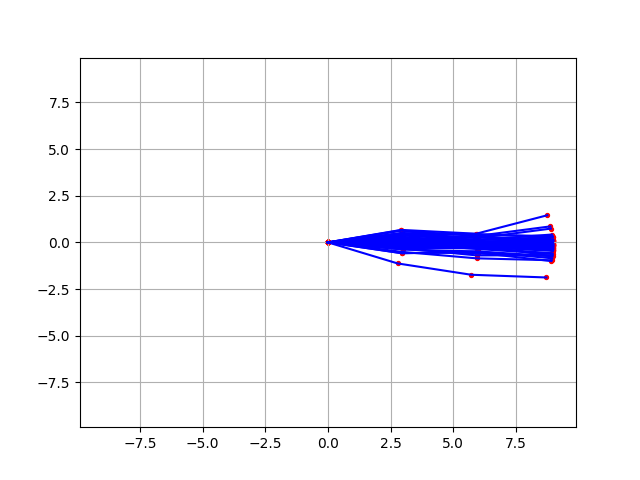
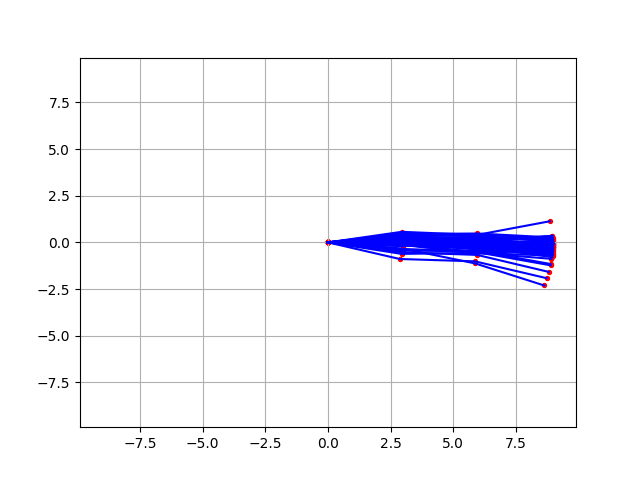
area of convex hull added

Changed region(s): [[0.5312, 0.4375, 0.875, 0.5938]]

diff --git a/src/utils.py b/src/utils.py
@@ -56,9 +56,15 @@ def plot_contour_lines(config, points, gt, percentile=0.97):
 
     # selects
     selected_points = torch.index_select(input=torch.Tensor(points), dim=0, index=torch.LongTensor(idx_k)).numpy()
+    # print('SHAPE OF selected points: ', selected_points.shape)
+    selected_points = np.insert(selected_points, [1], gt, axis=0)
+    # print('SHAPE OF points: ', points.shape)
+
     hull = ConvexHull(selected_points)
+    area = np.around(hull.area, decimals=2)
 
     fig = plt.figure()
+    plt.title('Area of convex hull: ' + str(area))
     plt.axis([6.0, 9.5, -4.0, 4.0])
     plt.scatter(points[:, 0], points[:, 1], c='g')
     plt.scatter(gt[0], gt[1], c='r')
@@ -66,10 +72,6 @@ def plot_contour_lines(config, points, gt, percentile=0.97):
     for simplex in hull.simplices:
         plt.plot(selected_points[simplex, 0], selected_points[simplex, 1], 'k-')
     plt.savefig('figures/q_quantile_of_points_' + config['name'] + '_' + config['dof'] + '.png')
-
-
-
-    # plt.savefif(PATH + '')
 
 # Testing example
 if __name__ == '__main__':

diff --git a/src/robotsim_test.py b/src/robotsim_test.py
@@ -28,6 +28,8 @@ if __name__ == '__main__':
     model_name = 'CVAE'
     robot_dof = '3DOF'
 
+    percentile = 0.8
+
     ####################################################################################################################
     # LOAD DATASET
     ####################################################################################################################
@@ -162,7 +164,7 @@ if __name__ == '__main__':
     resimulation_xy = resimulation_tcp[:, :2]
     tcp_squeezed = torch.squeeze(tcp)
     print(tcp_squeezed)
-    plot_contour_lines(config, resimulation_xy, gt=tcp_squeezed.numpy(), percentile=0.8)
+    plot_contour_lines(config, resimulation_xy, gt=tcp_squeezed.numpy(), percentile=percentile)
 
 
     if model_name == 'CVAE':
